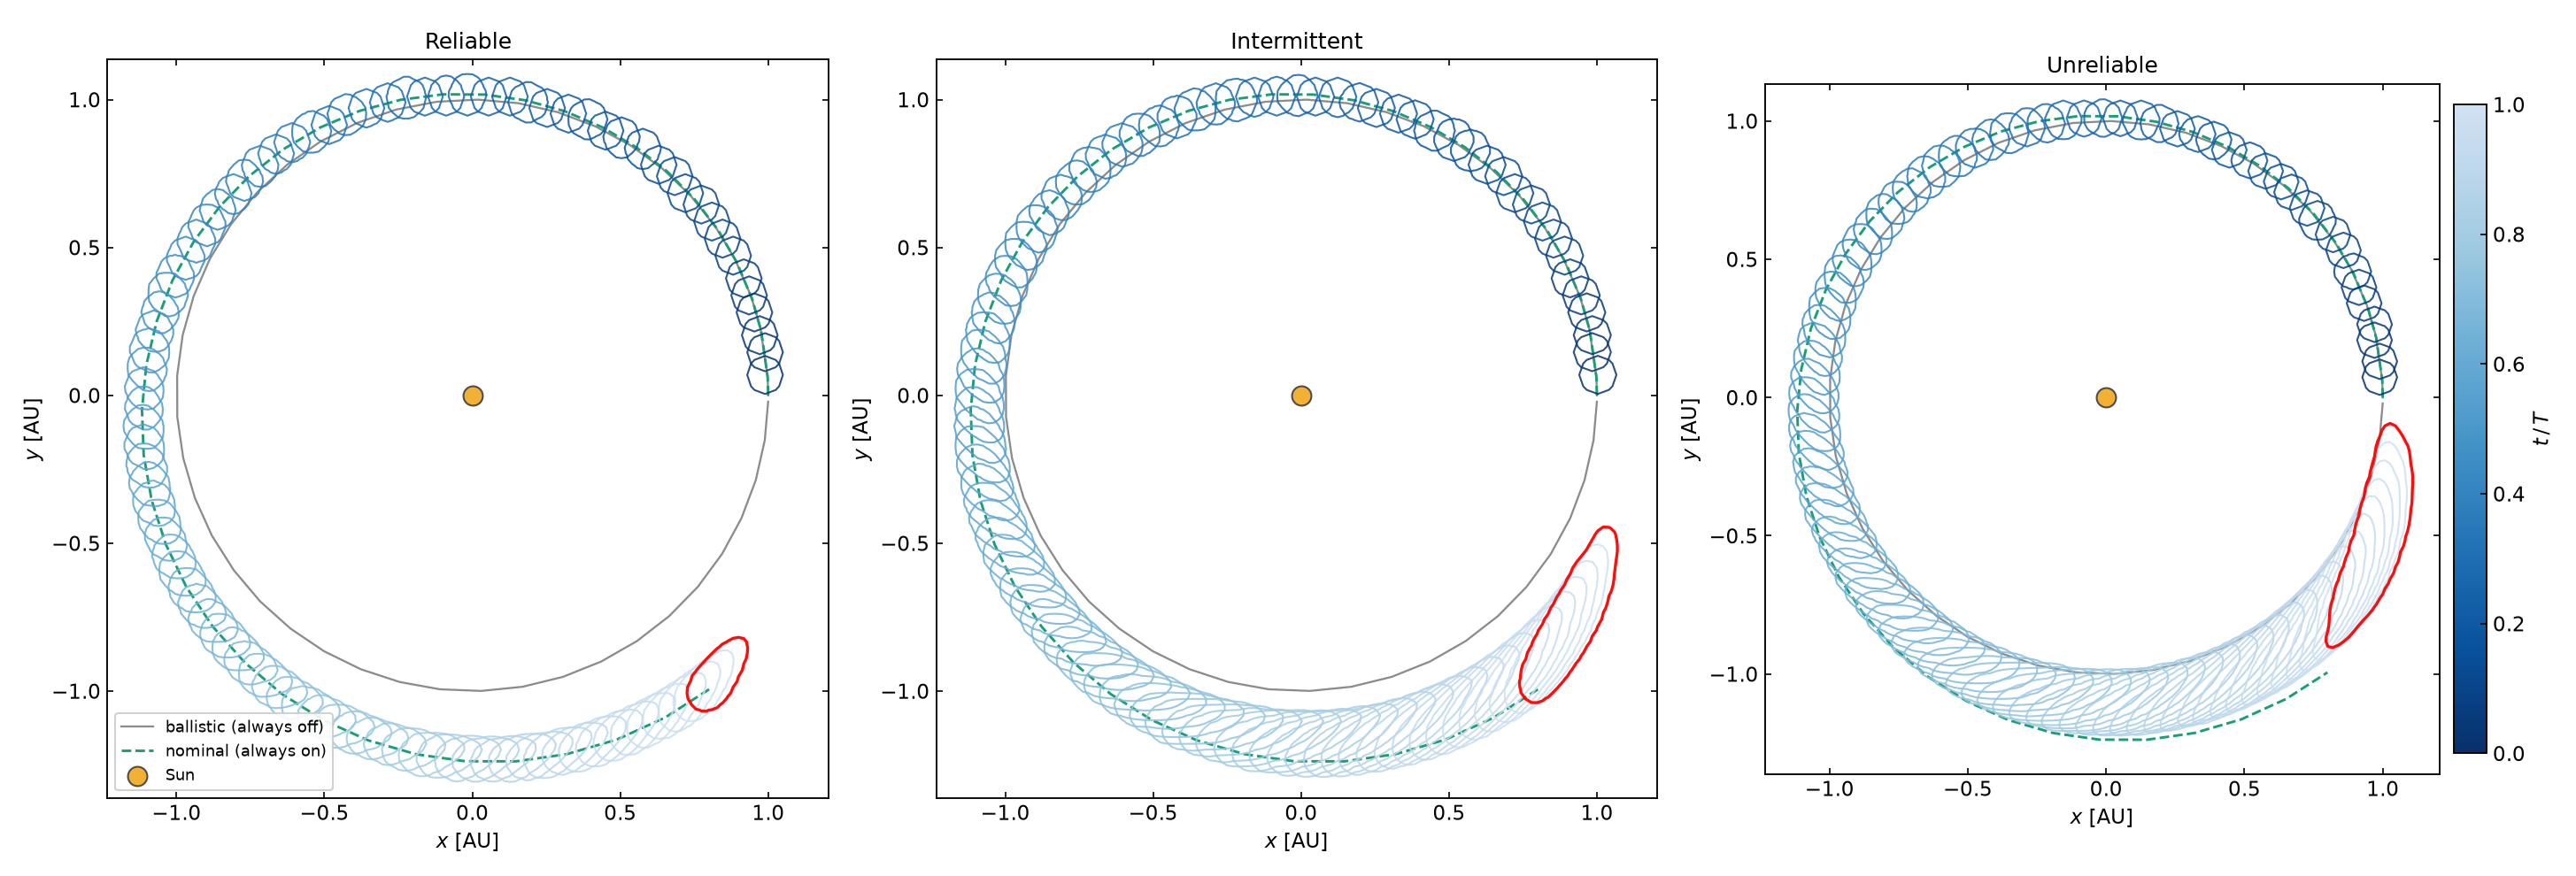
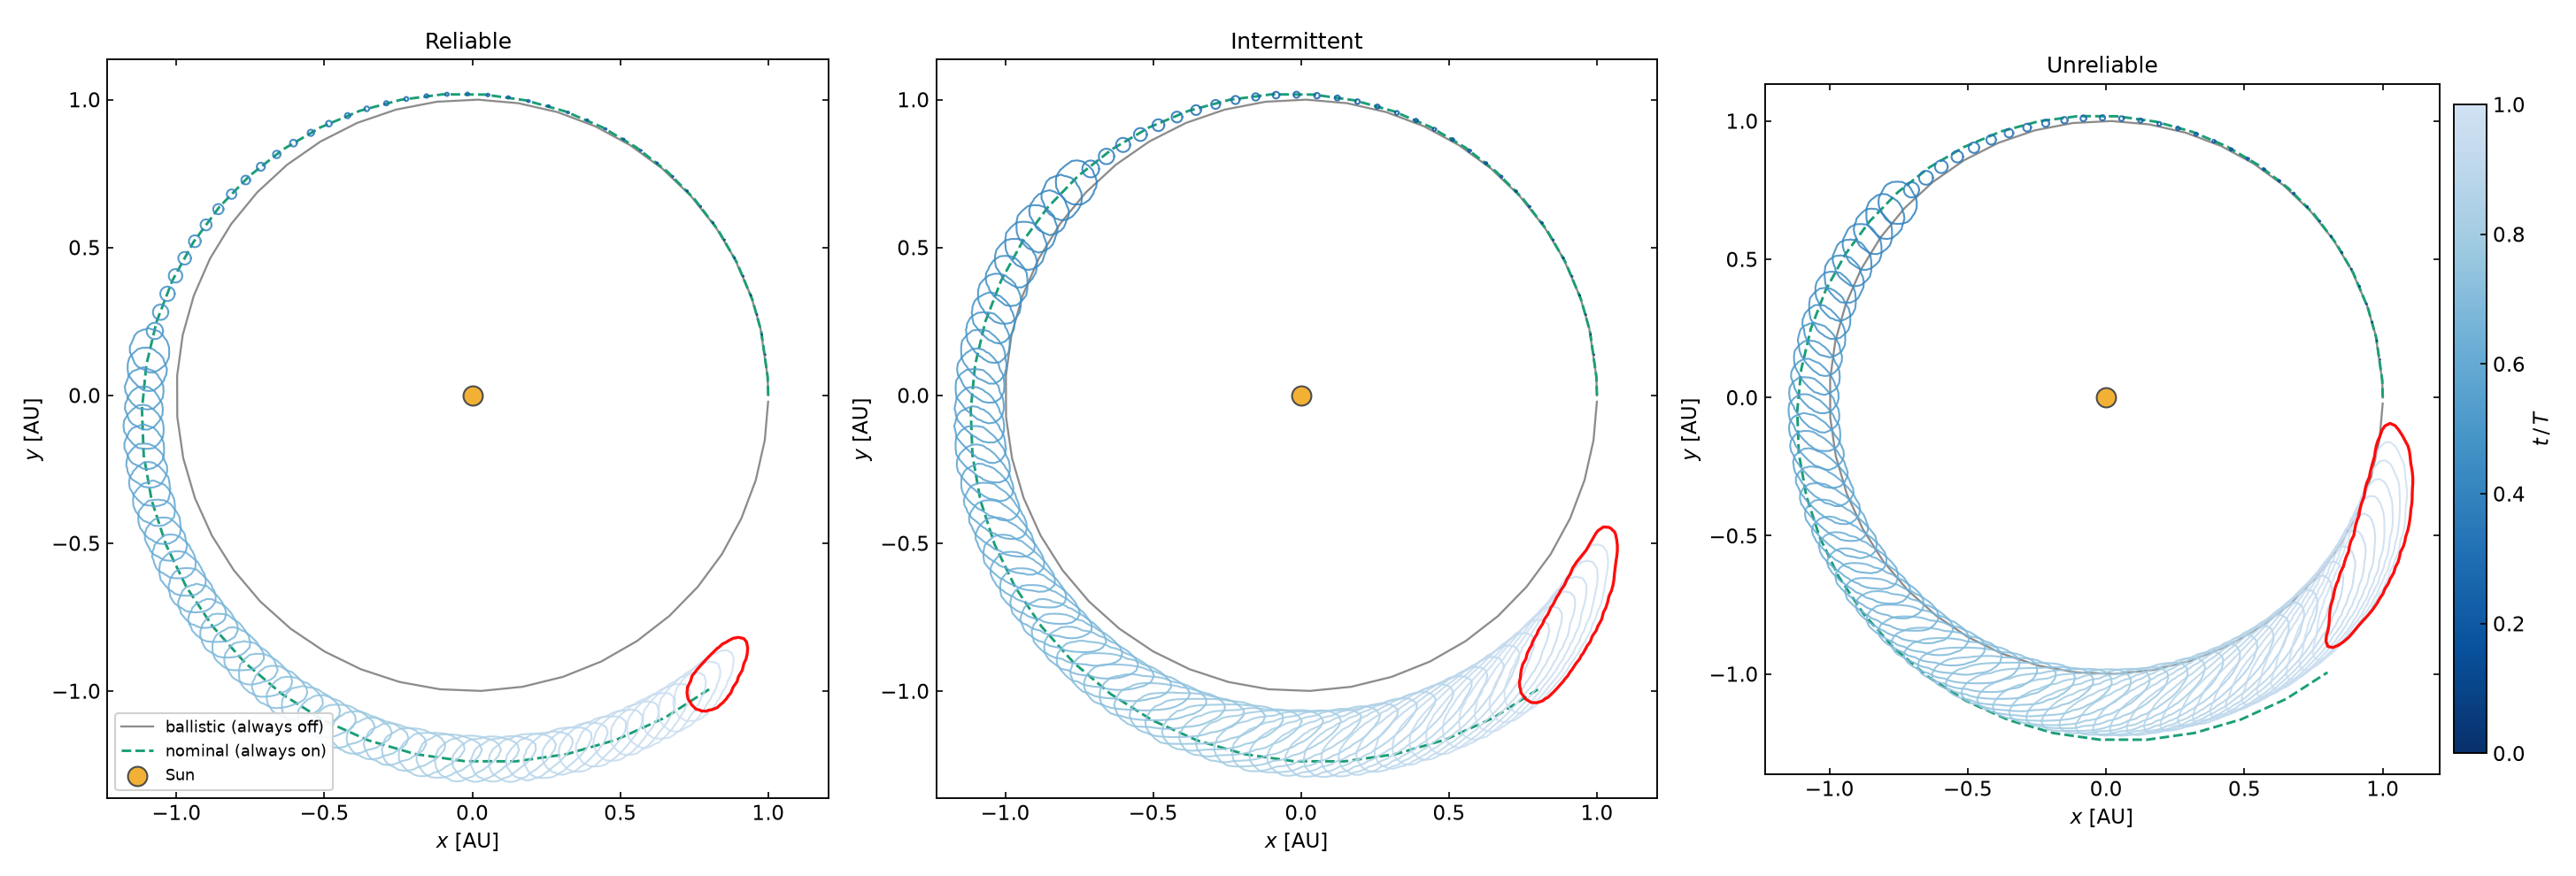
Fix spurious early dispersion sets in missed-thrust on/off figure
The 3-sigma growth figure read its contours from a 130x130 histogram spanning
the whole orbit (cell ~0.019 AU) smoothed with sigma=1.1 cells. Any cloud
smaller than a cell saturated the smoothed HDR contour at a ~0.058 AU "floor",
so the early snapshots looked spuriously large even though the true 3-sigma
radius is <0.001 AU for the first ~150 days.

plot.py now draws snapshots whose true 3-sigma radius is below ~1.5 grid cells
as true-radius circles at the cloud mean, and only uses the histogram contour
once the set is actually resolved. Update the tutorial text to describe the
near-zero early dispersion and the sub-resolution rendering.

Claude-Session: https://claude.ai/code/session_01YYiZYPc8McVTqoinJprf9C

diff --git a/examples/missed_thrust_onoff/plot.py b/examples/missed_thrust_onoff/plot.py
@@ -177,16 +177,31 @@ def main():
         g = d["grid"]
         xs, ys = grid_axes(g)
         X, Y = np.meshgrid(xs, ys)
+        # A histogram contour cannot resolve a cloud smaller than ~1 grid cell:
+        # below this the smoothed HDR contour saturates at a fixed "floor" size
+        # (~3 cells) and the early sets look spuriously large. Where the true
+        # 3-sigma radius is sub-resolution we draw it as a circle at the cloud
+        # mean instead, so the set shows its real (tiny) size and growth.
+        cell = max((g["xmax"] - g["xmin"]) / g["nx"], (g["ymax"] - g["ymin"]) / g["ny"])
+        res_floor = 1.5 * cell
         snaps = d["snapshots"]
         t_final = snaps[-1]["t"]
+        theta = np.linspace(0, 2 * np.pi, 80)
         for i, snap in enumerate(snaps):
-            h = hist2d(snap, g)
-            lvl = hdr_levels(h, [SIGMA_FRACS[2]])[0]   # 3-sigma envelope
             last = i == len(snaps) - 1
             col = "red" if last else cmap(norm(snap["t"] / t_final))
+            lw = 1.6 if last else 1.0
+            alpha = 0.95 if last else 0.85
+            zo = 4 if last else 3
+            if snap["r3s"] < res_floor:                # sub-resolution: true circle
+                cx, cy = snap["mean"]
+                ax.plot(cx + snap["r3s"] * np.cos(theta), cy + snap["r3s"] * np.sin(theta),
+                        color=col, lw=lw, alpha=alpha, zorder=zo)
+                continue
+            h = hist2d(snap, g)
+            lvl = hdr_levels(h, [SIGMA_FRACS[2]])[0]   # 3-sigma envelope
             ax.contour(X, Y, h, levels=strictly_increasing([lvl, h.max()]),
-                       colors=[col], linewidths=1.6 if last else 1.0,
-                       alpha=0.95 if last else 0.85, zorder=4 if last else 3)
+                       colors=[col], linewidths=lw, alpha=alpha, zorder=zo)
         draw_refs(ax, d, label=(k == 0))
         ax.set_xlim(xlim)
         ax.set_ylim(ylim)

diff --git a/docs/tutorials/missed_thrust_onoff.md b/docs/tutorials/missed_thrust_onoff.md
@@ -144,12 +144,18 @@ by \(t/T\) (blue early → red final), strung along the orbit on the ballistic
 
 ![On/off dispersion 3σ growth over one revolution](img/missed_thrust_onoff.png)
 
-The dispersion ellipses trail the spacecraft like beads on a string, widening
-as missed-thrust offsets accumulate. The **mean track also lags further behind
-the nominal** as reliability drops: more OFF arcs deliver less total impulse, so
-the orbit stays closer to the (faster) ballistic circle and the spacecraft
-advances further around it — the unreliable beads reach much higher up the
-right-hand side than the tightly-clustered reliable ones.
+The dispersion **starts at essentially a point** and widens as missed-thrust
+offsets accumulate: for the first ~third of the revolution the 3σ radius is
+below \(10^{-2}\,\mathrm{AU}\) (a single missed 4-day arc barely perturbs the
+orbit), then it grows super-linearly as phase errors compound. The early
+snapshots are sub-resolution for the shared histogram grid, so they are drawn as
+true-radius circles at the cloud mean rather than smoothed contours — otherwise
+the grid/smoothing floor would make them look spuriously large. The **mean
+track also lags further behind the nominal** as reliability drops: more OFF arcs
+deliver less total impulse, so the orbit stays closer to the (faster) ballistic
+circle and the spacecraft advances further around it — the unreliable beads
+reach much higher up the right-hand side than the tightly-clustered reliable
+ones.
 
 ### Final-epoch dispersion — nested 1/2/3σ bands
 